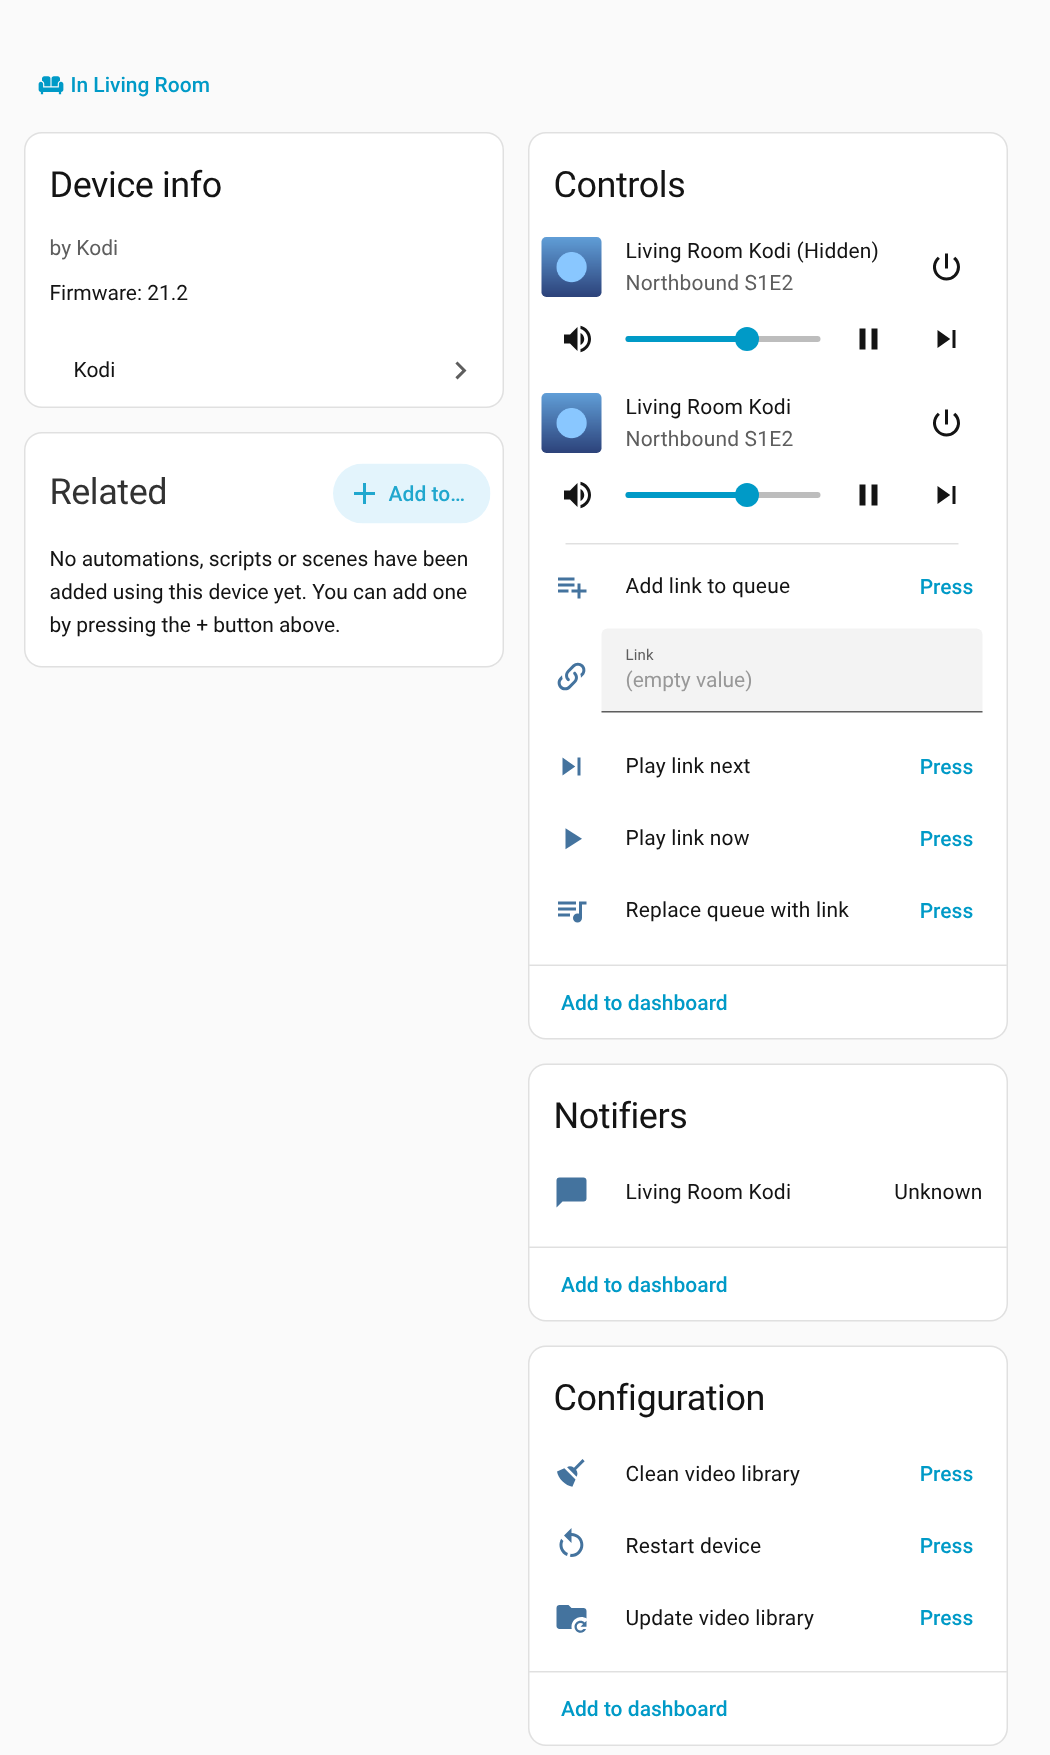
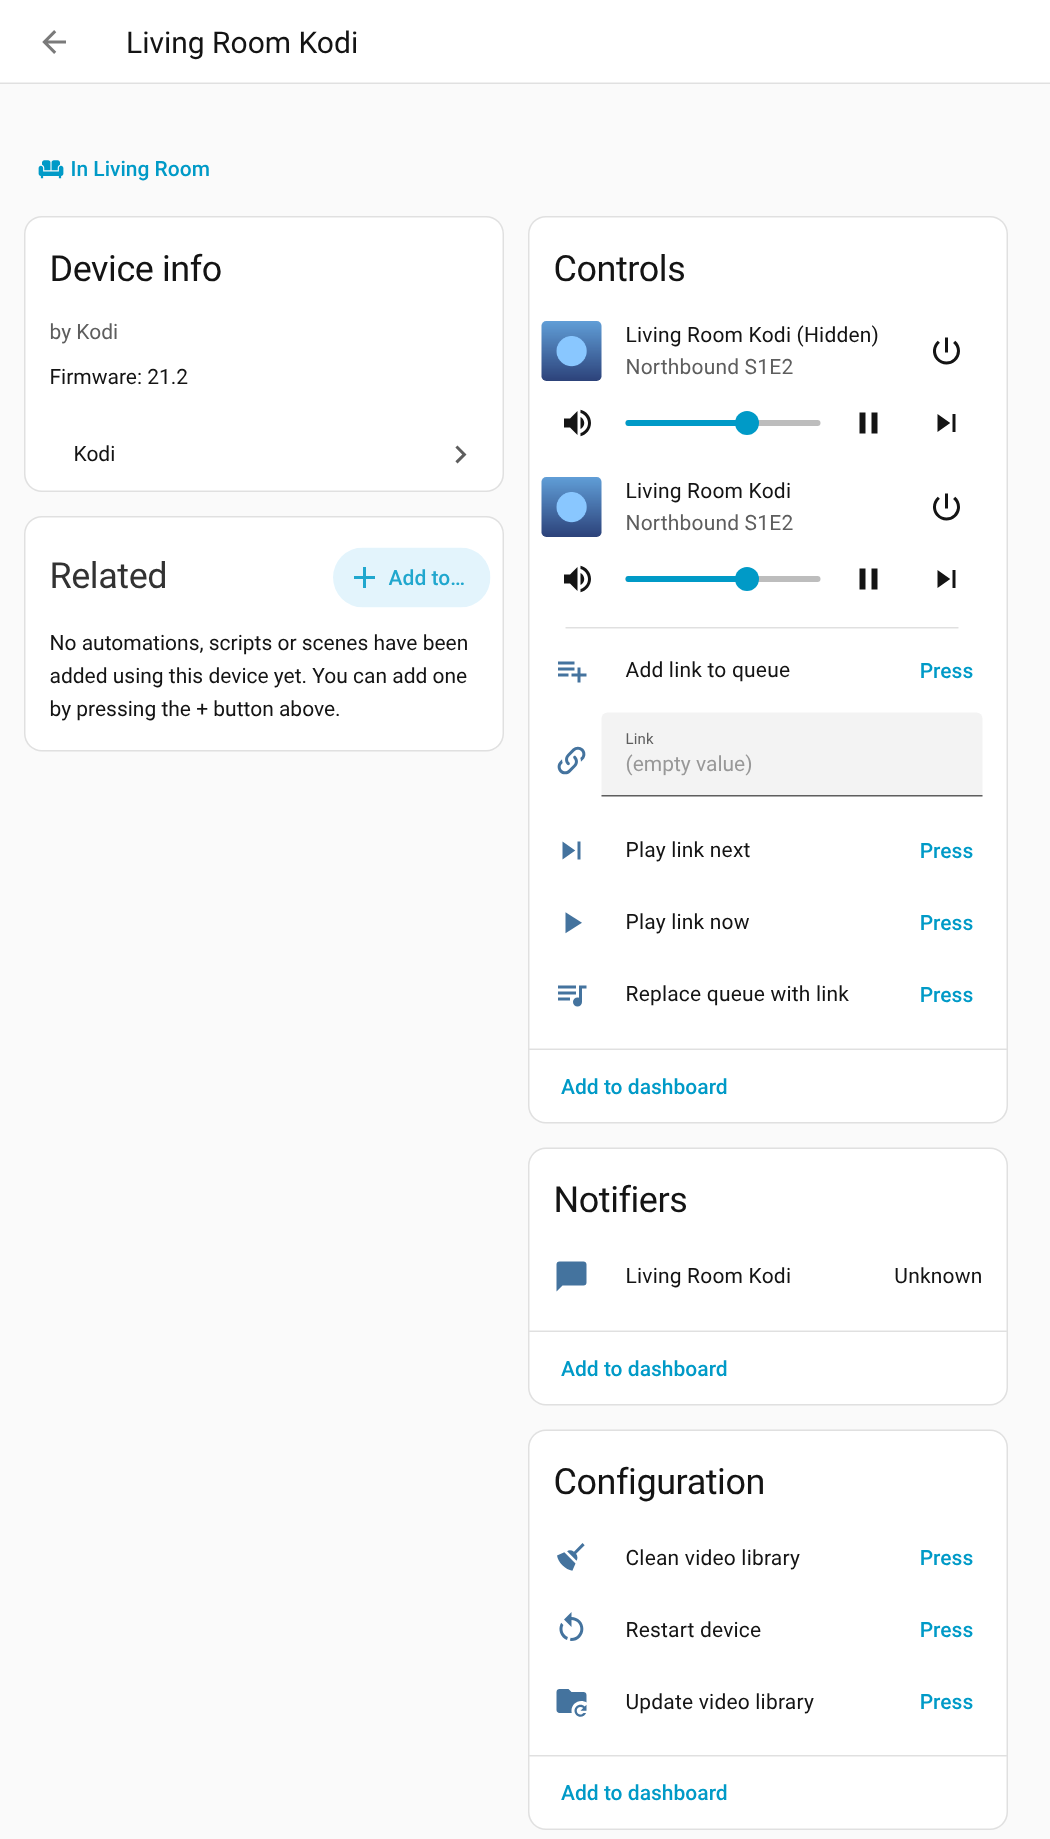
Screenshots review: README card matches the screenshot, device name visible
- README dashboard example is the card from the screenshot (four named
  buttons).
- Device page screenshot includes the device name; made-up YouTube link.
- Options table in the dialog's order; caption for the device page.
- Reproduction steps: Playwright, repo root, fresh config, device ID.
- Fake Kodi: font fallback, -v flag, error codes.

Claude-Session: https://claude.ai/code/session_01CTcmP3ddwgURxmiTf5w2o8

diff --git a/scripts/screenshots/fake_kodi_server.py b/scripts/screenshots/fake_kodi_server.py
@@ -28,7 +28,7 @@ from tests.fake_kodi import FakeKodi  # noqa: E402
 
 _LOGGER = logging.getLogger("fake_kodi")
 
-FONT = "/usr/share/fonts/truetype/dejavu/DejaVuSans-Bold.ttf"
+FONT = Path("/usr/share/fonts/truetype/dejavu/DejaVuSans-Bold.ttf")
 
 # Invented titles only.
 MOVIES = [
@@ -70,7 +70,8 @@ def poster(name: str, title: str, hue: float, size: tuple[int, int] = (400, 600)
         (width // 2 - r, height // 3 - r, width // 2 + r, height // 3 + r),
         fill=tuple(min(255, c + 40) for c in top),
     )
-    font = ImageFont.truetype(FONT, max(18, width // 13))
+    size = max(18, width // 13)
+    font = ImageFont.truetype(FONT, size) if FONT.exists() else ImageFont.load_default(size)
     words, lines, line = title.split(), [], ""
     for word in words:
         candidate = f"{line} {word}".strip()
@@ -293,7 +294,7 @@ async def answer(kodi: DemoKodi, request: dict[str, Any]) -> dict[str, Any] | No
         response = {
             "jsonrpc": "2.0",
             "id": request_id,
-            "error": {"code": -32601, "message": err.message},
+            "error": {"code": err.code or -32601, "message": err.message},
         }
     except (KodiError, TypeError) as err:
         _LOGGER.warning("%s(%s) failed: %s", method, params, err)
@@ -350,7 +351,7 @@ async def main() -> None:
     parser.add_argument("--ws-port", type=int, default=9090)
     parser.add_argument("-v", action="store_true", help="log every WebSocket call")
     args = parser.parse_args()
-    logging.basicConfig(level=logging.DEBUG if "-v" in sys.argv else logging.INFO)
+    logging.basicConfig(level=logging.DEBUG if args.v else logging.INFO)
     kodi = DemoKodi()
     for port, ws in ((args.port, False), (args.ws_port, True)):
         runner = web.AppRunner(make_app(kodi, websocket=ws))

diff --git a/README.md b/README.md
@@ -17,7 +17,7 @@ Better Kodi does not replace the built-in Kodi integration. It sits on top of it
 
 <table>
 <tr>
-<td width="50%" valign="top"><b>Paste a link</b> – play it now, next, at the end of the queue, or replace the queue<br><br><img src="https://raw.githubusercontent.com/financelurker/ha-better-kodi/main/docs/images/dashboard.png?v=2b9f3abd41" alt="Dashboard with Kodi's media card, a link field and four buttons"></td>
+<td width="50%" valign="top"><b>Paste a link</b> – play it now, next, at the end of the queue, or replace the queue<br><br><img src="https://raw.githubusercontent.com/financelurker/ha-better-kodi/main/docs/images/dashboard.png?v=0a0aa34eee" alt="Dashboard with Kodi's media card, a link field and four buttons"></td>
 <td width="50%" valign="top"><b>Media browser</b> – a movie or episode offers play now, play next, add to queue and replace queue<br><br><img src="https://raw.githubusercontent.com/financelurker/ha-better-kodi/main/docs/images/choices.png?v=25357c890e" alt="Media browser: a movie with Play now, Play next, Add to queue and Replace queue"></td>
 </tr>
 <tr>
@@ -68,7 +68,9 @@ What happens:
 - **Assist**: if the Kodi media player was exposed to Assist, the exposure and its aliases move to Better Kodi's media player, so voice commands reach the right one. Check under **Settings → Voice assistants → Expose**; see [Exposing entities to Assist](https://www.home-assistant.io/voice_control/voice_remote_expose_devices/).
 - When you remove Better Kodi, the Kodi media player is shown again and gets its Assist settings back.
 
-<img src="https://raw.githubusercontent.com/financelurker/ha-better-kodi/main/docs/images/device.png?v=5bca442e15" alt="Kodi device page: Better Kodi's media player, link field and buttons, notifier and library buttons" width="520">
+<img src="https://raw.githubusercontent.com/financelurker/ha-better-kodi/main/docs/images/device.png?v=82a75c57ff" alt="Kodi device page: Better Kodi's media player, link field and buttons, notifier and library buttons" width="520">
+
+The hidden Kodi media player and Better Kodi\'s media player share the device.
 
 ### Options
 
@@ -88,11 +90,11 @@ Under **Settings → Devices & services → Better Kodi → Configure**:
 | Switch Kodi off with | Kodi automation | **Suspend**, **Hibernate**, **Shut down** or **Quit Kodi** (Kodi commands), or your "Kodi turned off" automation. Quit Kodi leaves the device on (see below). |
 | Wake Kodi before sending | on | See below. |
 | Wait at most | 120 s | How long to wait for Kodi to wake up. |
+| Links shared from phones | Add to queue, all phones | See [Share from your phone](#share-from-your-phone). |
 | Choices in the media browser | on | See [Play next or add to the queue from the media browser](#play-next-or-add-to-the-queue-from-the-media-browser). |
 | Link field and buttons | on | See [Paste a link](#paste-a-link-link-field-and-buttons). Off removes them. |
 | Library and restart buttons | on | See [Messages on the TV, library and restart](#messages-on-the-tv-library-and-restart). Off removes them. |
 | Messages on Kodi | on | The notify entity, see the same section. Off removes it. |
-| Links shared from phones | Add to queue, all phones | See [Share from your phone](#share-from-your-phone). |
 | Look up titles online | on | Asks YouTube for titles and images of YouTube entries. Off: Home Assistant doesn't contact YouTube for Better Kodi. |
 
 ### Switching Kodi on and off
@@ -153,17 +155,24 @@ data:
 
 Better Kodi adds a **Link** field and four buttons to the Kodi device: **Play link now**, **Play link next**, **Add link to queue** and **Replace queue with link**. Paste a link, press a button, done; the field is cleared afterwards (and kept if the link can't be played).
 
-Put them on a dashboard, for example:
+Put them on a dashboard, for example (the card in the screenshot above):
 
 ```yaml
 type: entities
+title: Send a link to Kodi
 entities:
   - entity: text.living_room_kodi_link
+    name: Link
   - type: buttons
     entities:
-      - button.living_room_kodi_play_link_now
-      - button.living_room_kodi_play_link_next
-      - button.living_room_kodi_add_link_to_queue
+      - entity: button.living_room_kodi_play_link_now
+        name: Play now
+      - entity: button.living_room_kodi_play_link_next
+        name: Play next
+      - entity: button.living_room_kodi_add_link_to_queue
+        name: Add to queue
+      - entity: button.living_room_kodi_replace_queue_with_link
+        name: Replace queue
 ```
 
 The field holds up to 255 characters, the longest value Home Assistant can store. For longer links use `media_player.play_media` directly.

diff --git a/scripts/screenshots/README.md b/scripts/screenshots/README.md
@@ -1,47 +1,76 @@
 # README screenshots
 
 The screenshots in `docs/images/` are taken on a real Home Assistant with a
-simulated Kodi, so they can be redone after a change. All titles and covers are
-made up (`fake_kodi_server.py`).
+simulated Kodi, so they can be redone after a change. All titles, covers and
+links are made up (`fake_kodi_server.py`). Run every command from the
+repository root.
 
 1. Install Home Assistant in its own virtual environment, in the version the
-   screenshots should show (currently 2026.10.2), with its frontend, plus
-   `pykodi` (for the Kodi integration) and `pillow`:
+   screenshots should show (currently 2026.10.2) with the frontend it pins
+   (`homeassistant/components/frontend/manifest.json`), plus `pykodi` (for the
+   Kodi integration) and `pillow`:
 
    ```bash
    python3.14 -m venv .ha && . .ha/bin/activate
    pip install homeassistant==2026.10.2 home-assistant-frontend==20260930.4 pykodi pillow
    ```
 
-2. Start the simulated Kodi (HTTP on 8080, WebSocket on 9090):
+2. Install Playwright with Chromium (not part of the repository):
+
+   ```bash
+   npm install --no-save playwright && npx playwright install chromium
+   ```
+
+   If Playwright is installed elsewhere, point `PLAYWRIGHT_MODULE` to its
+   `index.mjs` instead.
+
+3. Start the simulated Kodi (HTTP on 8080, WebSocket on 9090; `-v` logs every
+   WebSocket call):
 
    ```bash
    python scripts/screenshots/fake_kodi_server.py
    ```
 
-3. Start Home Assistant with an empty configuration folder that links this
-   repository's integration, for example:
+   It draws its covers with DejaVu Sans Bold if installed, otherwise with
+   Pillow's built-in font.
+
+4. Start Home Assistant with a new, empty configuration folder that links this
+   repository's integration:
 
    ```bash
    mkdir -p /tmp/ha/custom_components
    ln -s "$PWD/custom_components/better_kodi" /tmp/ha/custom_components/
-   printf 'frontend:\nconfig:\nhttp:\nmedia_source:\n' > /tmp/ha/configuration.yaml
+   cat > /tmp/ha/configuration.yaml <<'EOF'
+   homeassistant:
+     name: Home
+     unit_system: metric
+     time_zone: Europe/Vienna
+     country: AT
+     currency: EUR
+     internal_url: http://127.0.0.1:8123
+   frontend:
+   config:
+   http:
+   media_source:
+   EOF
    hass -c /tmp/ha
    ```
 
-4. Onboard and set everything up (user `demo`, Kodi and Better Kodi, area, a
-   dashboard). It prints the device ID:
+5. Once Home Assistant answers, onboard it and set everything up: user `demo`,
+   the Kodi integration, Better Kodi, the area and a dashboard. This only works
+   on a Home Assistant that hasn't been onboarded yet (start again with an empty
+   folder otherwise). It prints JSON with the device ID (and an access token):
 
    ```bash
-   python scripts/screenshots/setup_ha.py http://127.0.0.1:8123
+   DEVICE_ID=$(python scripts/screenshots/setup_ha.py http://127.0.0.1:8123 | jq -r .device_id)
    ```
 
-5. Take the screenshots with Playwright (Chromium):
+6. Take the screenshots:
 
    ```bash
-   DEVICE_ID=<device id> node scripts/screenshots/shoot.mjs http://127.0.0.1:8123 docs/images
+   DEVICE_ID=$DEVICE_ID node scripts/screenshots/shoot.mjs http://127.0.0.1:8123 docs/images
    ```
 
-   Add a name (for example `queue`) to take only one.
+   Add a name (for example `queue`) to take only that one.
 
-6. Update the image URLs in the README: `python scripts/readme_images.py`.
+7. Update the image URLs in the README: `python scripts/readme_images.py`.
